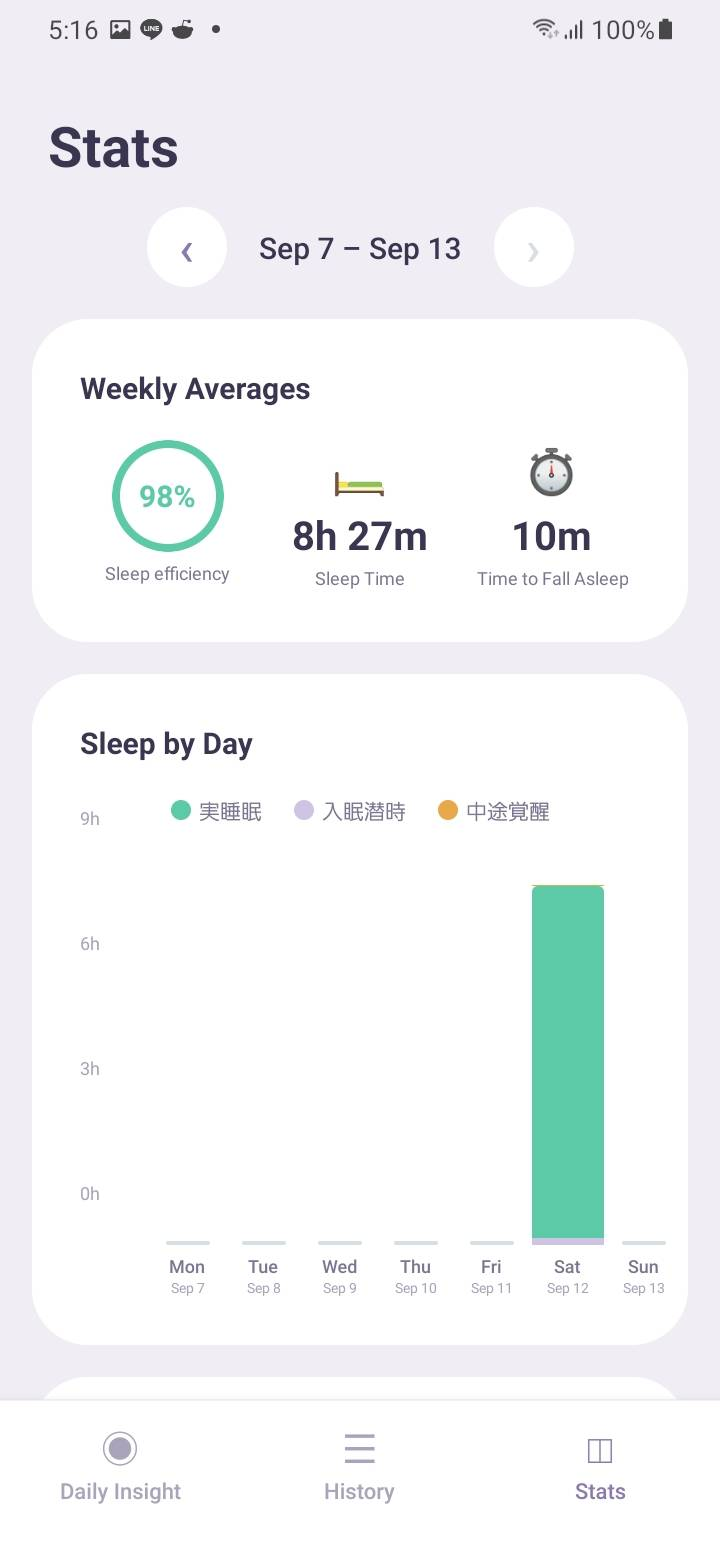
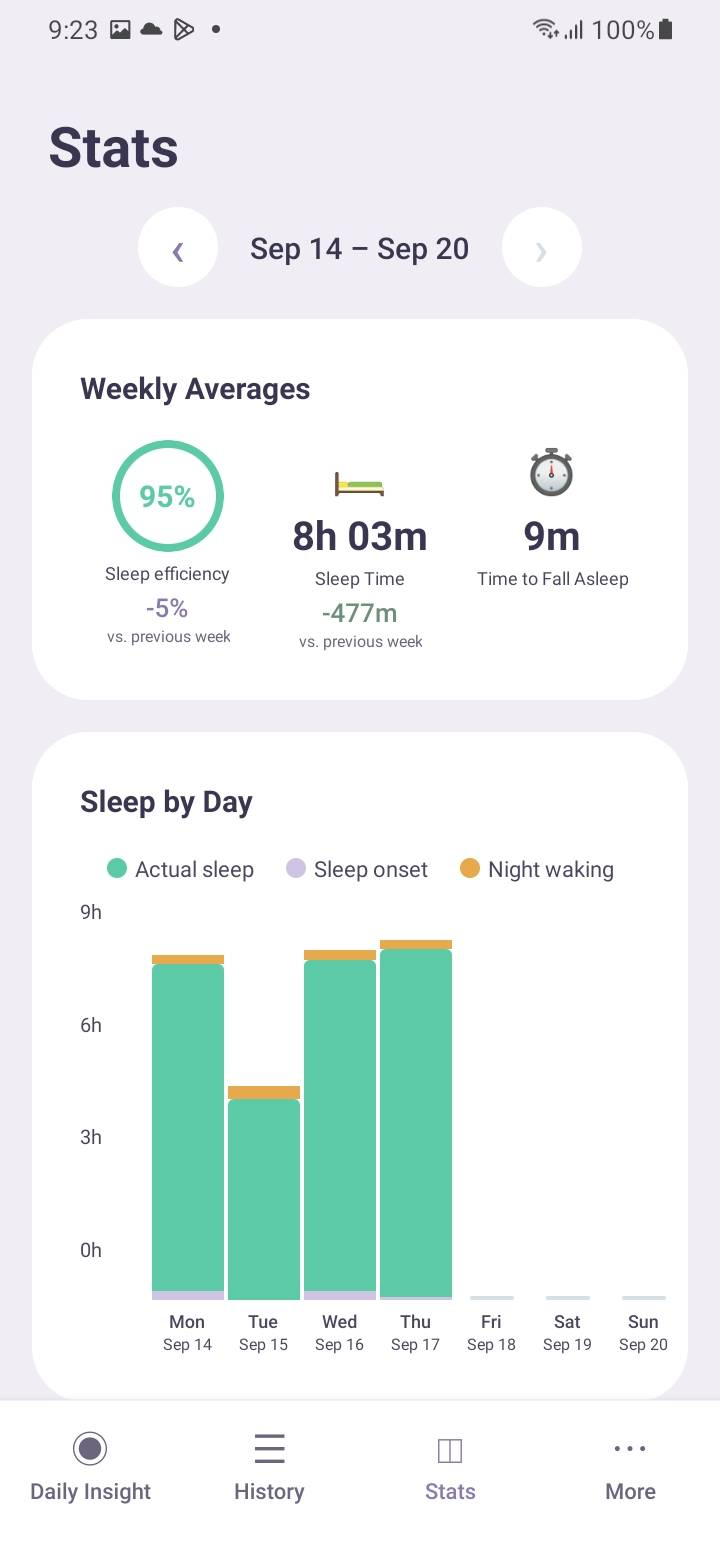
Show updated CBT-I weekly stats and sleep efficiency screenshots

diff --git a/apps/simple-cbt-i/src/components/screens.css b/apps/simple-cbt-i/src/components/screens.css
@@ -6,7 +6,7 @@
 .cbti-gallery{margin-top:56px;border-top:1px solid var(--line);padding-top:40px}
 .cbti-gallery h3{font-size:1.5rem}
 .cbti-screen-note{font-size:.875rem;margin-top:12px}
-.cbti-screen-grid{display:grid;grid-template-columns:repeat(2,minmax(0,1fr));gap:48px;max-width:800px;margin:30px auto 0}
+.cbti-screen-grid{display:grid;grid-template-columns:repeat(3,minmax(0,1fr));gap:32px;max-width:1100px;margin:30px auto 0}
 .cbti-screen-card{min-width:0}
 .cbti-screen-image{display:block;max-width:290px;margin-inline:auto;border:5px solid #d4cedf;border-radius:23px;overflow:hidden;background:#efecf3;box-shadow:0 12px 30px #37304412}
 .cbti-screen-image img{display:block;width:100%;height:auto}

diff --git a/deploy/README.md b/deploy/README.md
@@ -102,7 +102,7 @@ done
 
 | アプリ内 public/screenshots/ | ファイル | 現在の寸法 |
 |---|---|---|
-| simple-cbt-i | main.jpg / history.jpg / stats.jpg | 720×1560 |
+| simple-cbt-i | main.jpg / history.jpg / stats.jpg / stats-trend.jpg | 720×1560 |
 | simple-fasting-timer | timer.png | 876×1800 |
 | simple-fasting-timer | history.jpg / stats.jpg / detail.jpg | 720×1560 |
 | smart-live-assist | reader.jpg / auto-tap.jpg / guide.jpg / upgrade.jpg | 892×1834 |
